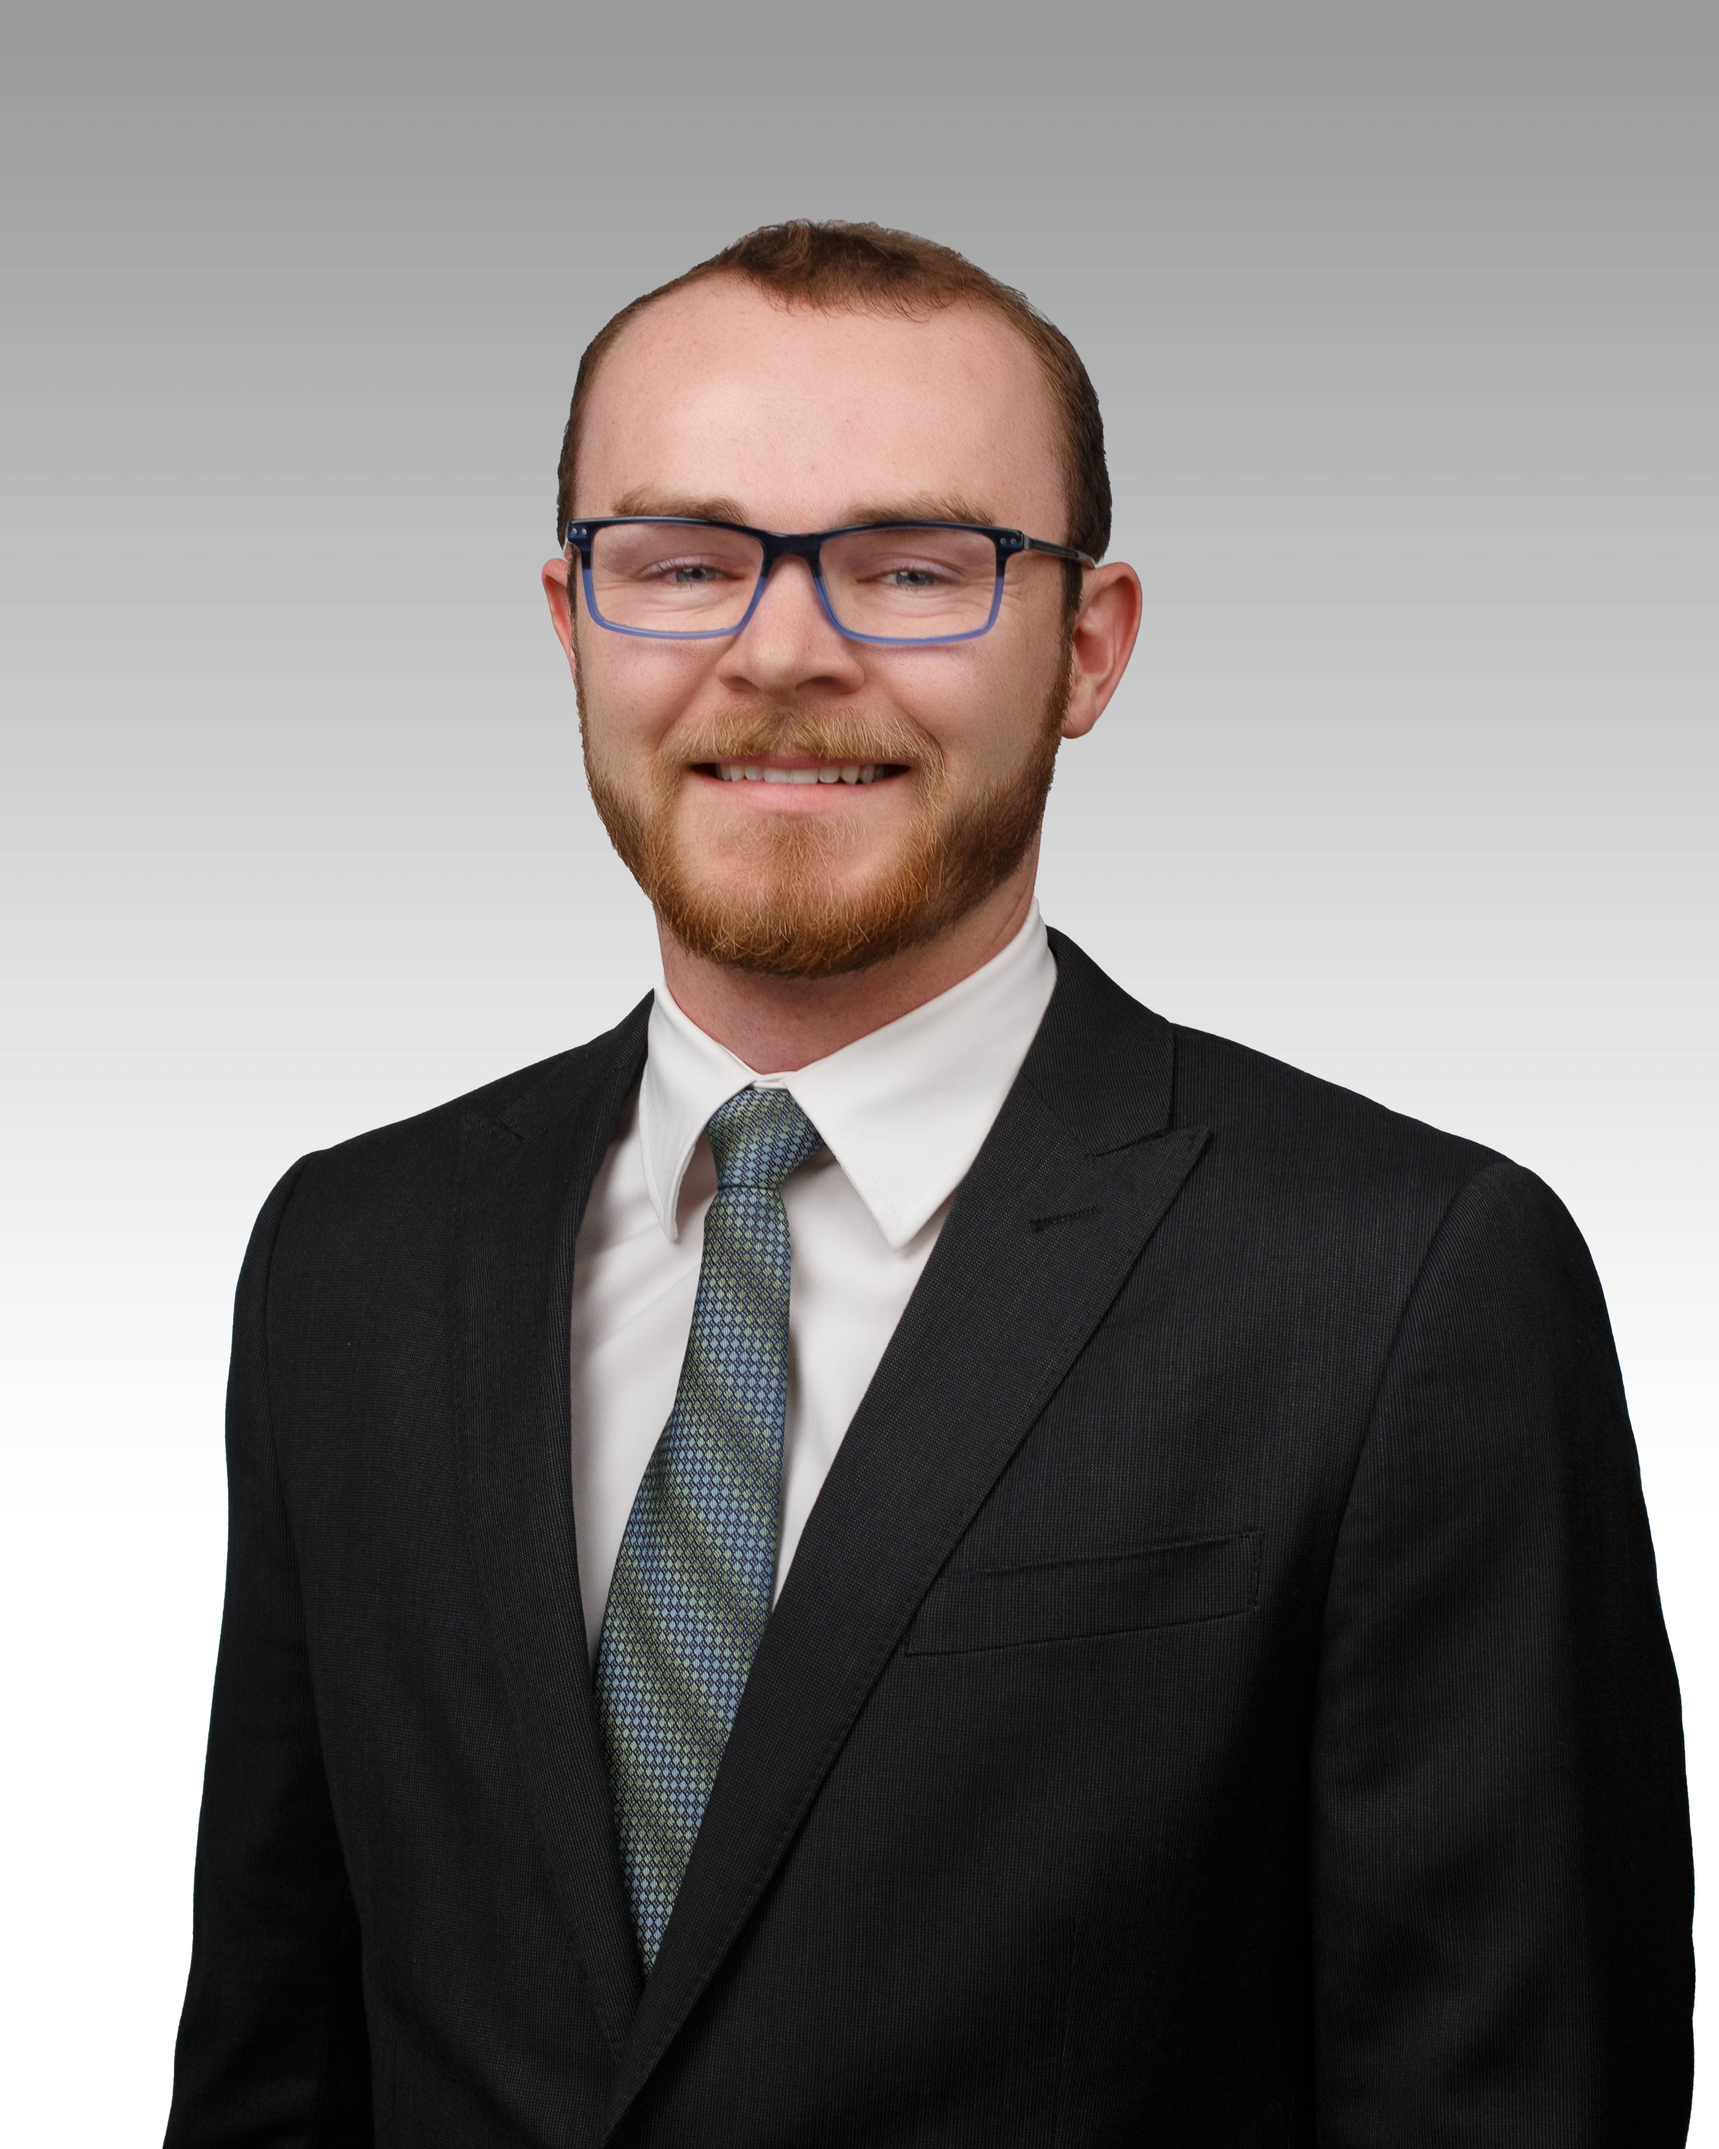
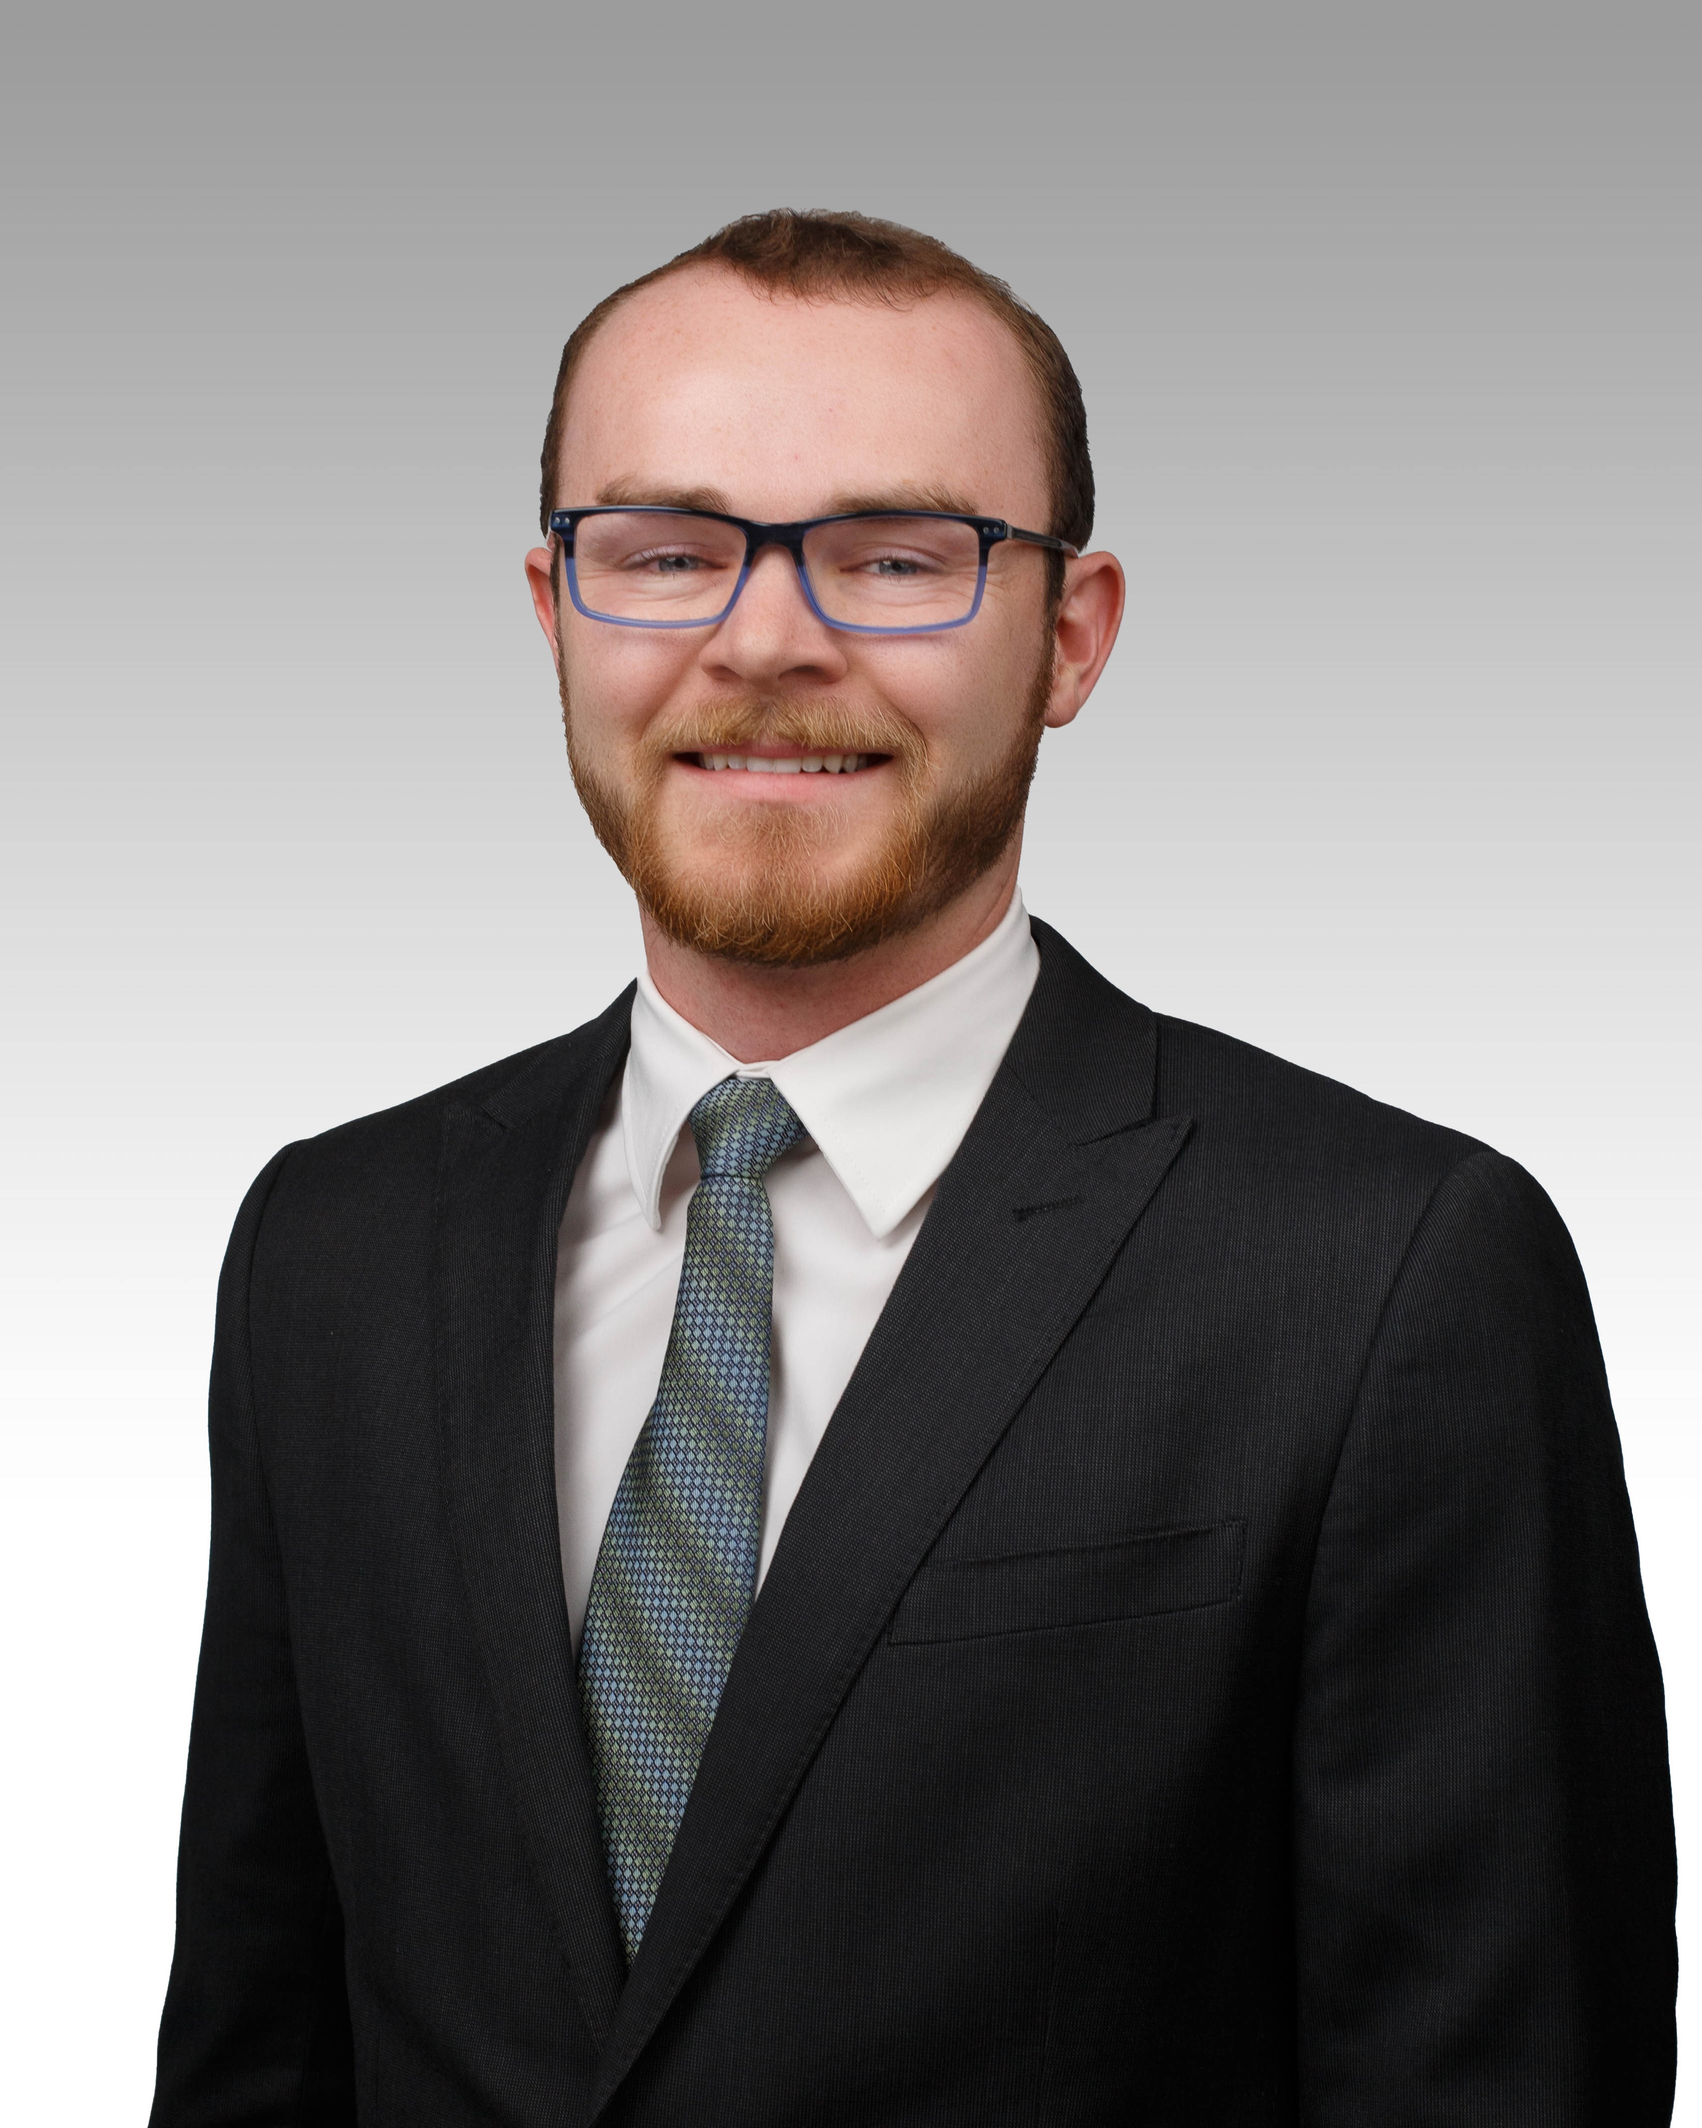
Set aspect ratio on intro pic.

diff --git a/src/components/ImageWithSpinner.tsx b/src/components/ImageWithSpinner.tsx
@@ -39,7 +39,7 @@ function ImageWithSpinner({ src, alt, className = '', spinnerClassName = '' }: I
   }, [src]);
 
   return (
-    <div className="relative flex items-center justify-center w-full h-full">
+    <div className="relative flex justify-center w-full h-full">
       {!loaded && (
         <div className={`absolute inset-0 flex items-center justify-center ${spinnerClassName}`}>
           <LoadingSpinner />

diff --git a/src/components/sections/IntroductionSection.tsx b/src/components/sections/IntroductionSection.tsx
@@ -22,7 +22,7 @@ function IntroductionSection({ ref }: IntroductionSectionProps) {
         Take a look around!
       </p>
       <br/><br/>
-      <div className="w-[50%] mx-auto">
+      <div className="w-[50%] mx-auto aspect-[3.4/4.25] max-h-[50vh]">
         <ImageWithSpinner 
           src={pic}
           alt="Professional Headshot"
